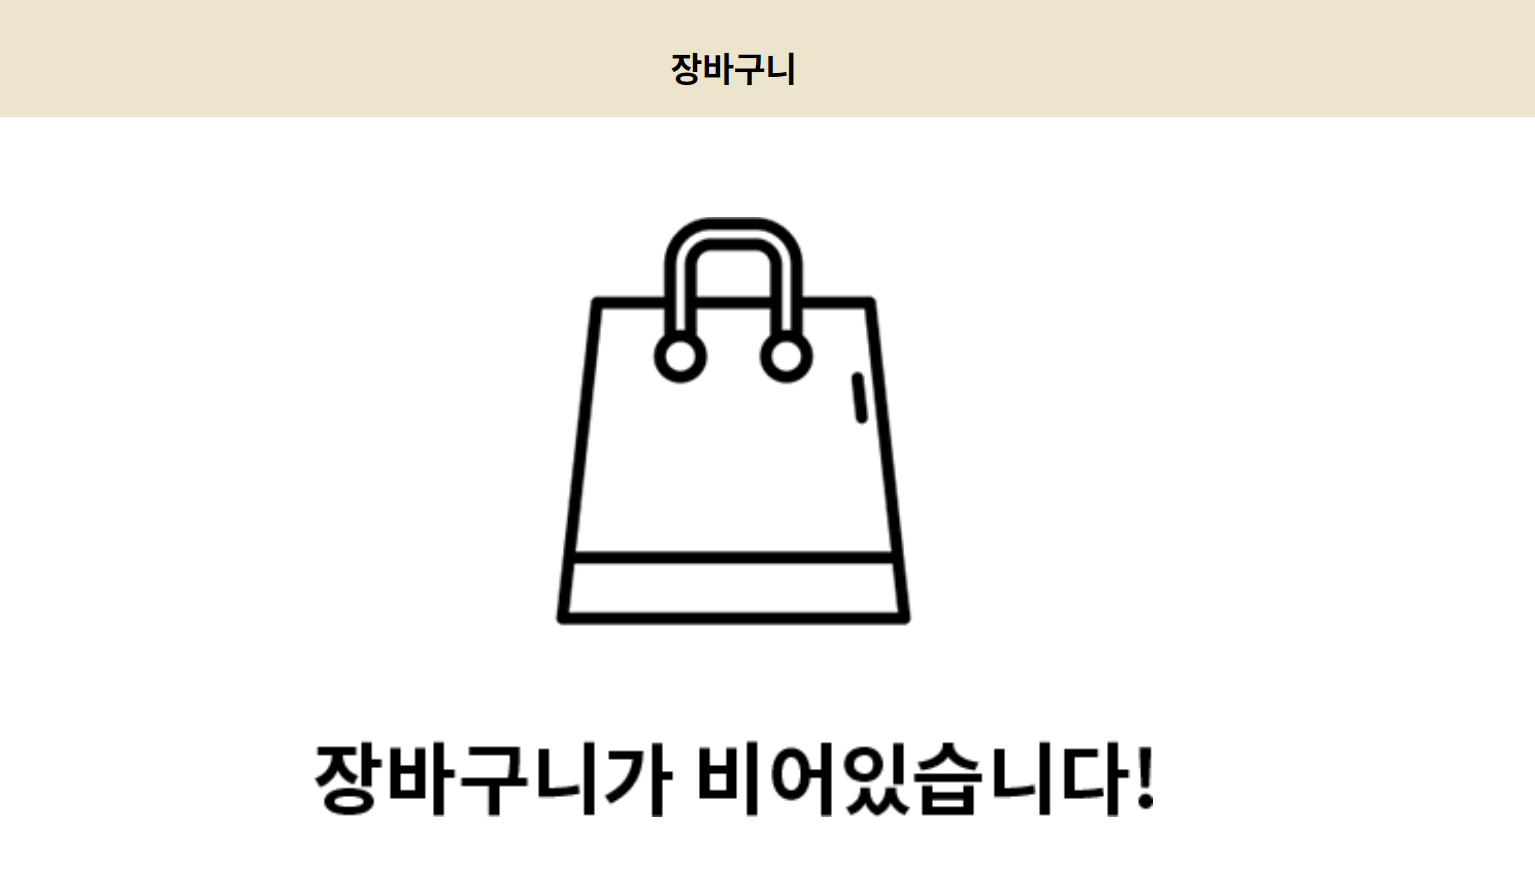
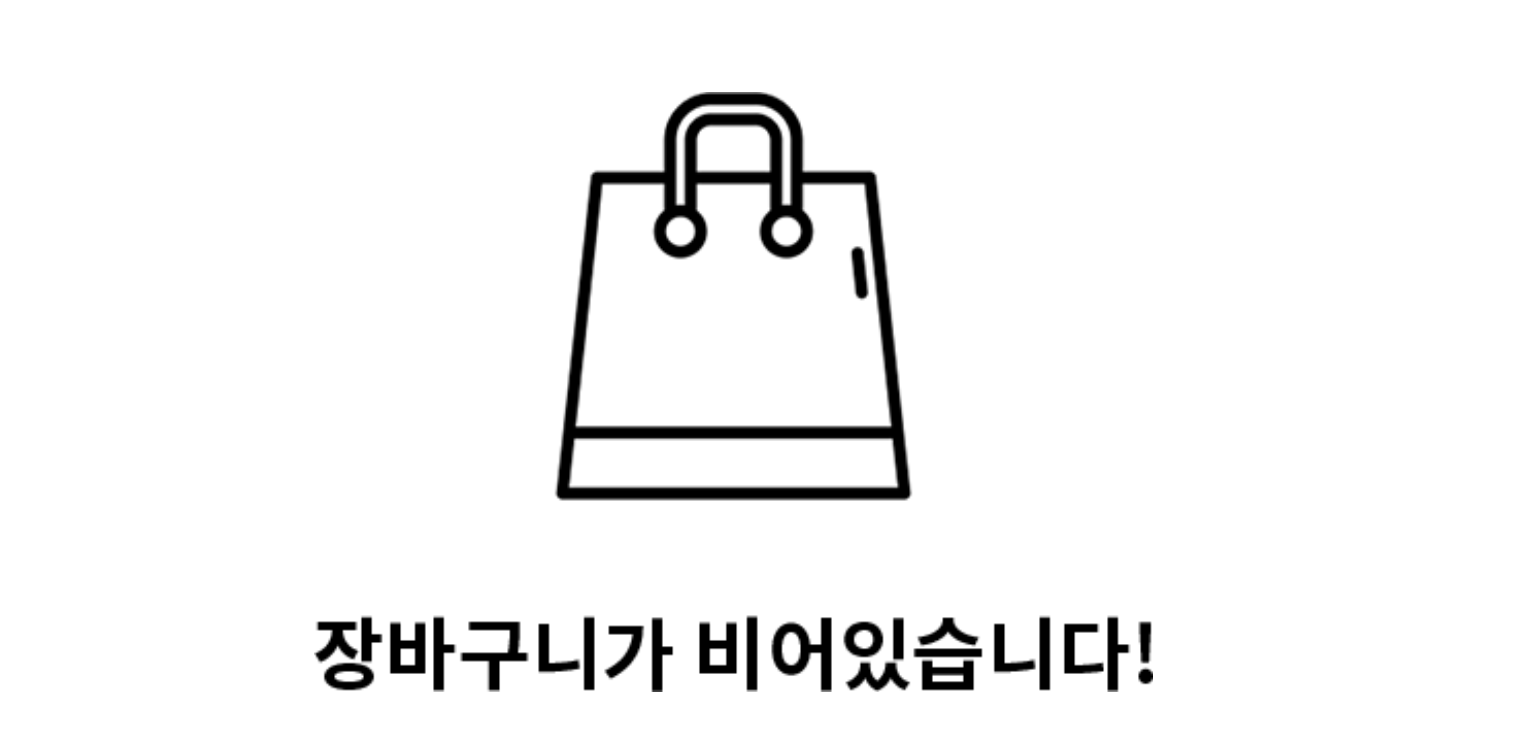
카트수정

Changed region(s): [[0.0, 0.0, 1.0, 0.7419], [0.1837, 0.8347, 0.7655, 0.9583]]

diff --git a/fran365/src/main/resources/templates/social/main.html b/fran365/src/main/resources/templates/social/main.html
@@ -9,7 +9,7 @@
     <link href="https://cdn.jsdelivr.net/npm/summernote@0.8.18/dist/summernote-bs4.min.css" rel="stylesheet">
     <script src="https://cdn.jsdelivr.net/npm/summernote@0.8.18/dist/summernote-bs4.min.js"></script>
 <script src="https://cdn.jsdelivr.net/npm/bootstrap@5.3.2/dist/js/bootstrap.bundle.min.js" integrity="sha384-C6RzsynM9kWDrMNeT87bh95OGNyZPhcTNXj1NW7RuBCsyN/o0jlpcV8Qyq46cDfL" crossorigin="anonymous"></script>
-<div class="container">
+<div class="container" style="margin-top: -80px;">
 <div class="content">
     <div class="pb-10">
         <div class="row gy-3 gx-5 gx-xxl-6">
@@ -61,7 +61,7 @@
                                                     <td class="align-middle white-space-nowrap text-end pe-0">
                                                         <div class="font-sans-serif btn-reveal-trigger position-static">
                                                             <button class="btn btn-sm dropdown-toggle dropdown-caret-none transition-none btn-reveal fs--2" type="button" data-bs-toggle="dropdown" data-boundary="window" aria-haspopup="true" aria-expanded="false" data-bs-reference="parent"><span class="fas fa-ellipsis-h fs--2"></span></button>
-                                                            <div class="dropdown-menu dropdown-menu-end py-2"> <button class="view-button" th:data-id="${list.id}">View</button><button class="dropdown-item" data-bs-toggle="modal" data-bs-target="#exampleModal" th:data-status="${list.status}" th:data-id="${list.id}" th:data-content="${list.content}">수정</button>
+                                                            <div class="dropdown-menu dropdown-menu-end py-2"><button class="dropdown-item view-button" th:data-id="${list.id}">보기</button><button class="dropdown-item" data-bs-toggle="modal" data-bs-target="#exampleModal" th:data-status="${list.status}" th:data-id="${list.id}" th:data-content="${list.content}">수정</button>
                                                                 <div class="dropdown-divider"></div><a class="dropdown-item text-danger" th:href="@{|/social/delete?id=${list.id}|}">삭제</a>
                                                             </div>
                                                         </div>
@@ -84,14 +84,14 @@
                         <input type="hidden" id="content-id" name="contentId">
                         <textarea type="text" id="summernote" name="content"></textarea>
                         <input type="hidden" name="image" th:value="${member.image}">
-                        <div style="display: flex; justify-content: center;">
+                        <div style="display: flex; justify-content: right;">
                         <input type="submit" class="btn btn-primary" style="margin-top: 5px;" value="등록">
                         </div>
                     </form>
                 </div>
 
-                <div class="mb-9">
-                    <br>
+                <div class="mb-9" style="margin-top: -30px">
+
                     <th:block th:each="detail, loop : ${paging}">
                     <div class="mb-5">
                         <div class="card mb-4">
@@ -106,23 +106,22 @@
 
                                         </div>
                                     </a>
-                                        <div th:id="'detail-' + ${detail.id}">
-                                        <div class="flex-1"><a class="fw-bold mb-0 text-black" href="../../apps/social/profile.html">[[${detail.username}]]</a>
+
+                                        <div class="flex-1" th:id="'detail-' + ${detail.id}"><a class="fw-bold mb-0 text-black" href="../../apps/social/profile.html">[[${detail.username}]]</a>
 
                                             <p class="fs--2 mb-0 text-600 fw-semi-bold"><div th:text="${#temporals.format(detail.createDate, 'yyyy년 MM월 dd일 HH:mm')}"></div><span class="fa-solid fa-circle text-300" data-fa-transform="shrink-10 down-2"></span>대한민국<span class="fa-solid fa-circle text-300" data-fa-transform="shrink-10 down-2"></span><span class="fa-solid fa-earth-americas text-900"></span>
                                             </p>
                                         </div>
-                                        </div>
+
                                         <div th:if="${#authorization.expression('hasRole(''ADMIN'')') or #authentication.name == detail.username}" class="btn-reveal-trigger">
                                             <button class="btn btn-sm dropdown-toggle dropdown-caret-none transition-none d-flex btn-reveal" type="button" data-bs-toggle="dropdown" data-boundary="window" aria-haspopup="true" aria-expanded="false" data-bs-reference="parent"><span class="fas fa-ellipsis-h"></span></button>
                                             <div class="dropdown-menu dropdown-menu-end py-2"><button class="dropdown-item" data-bs-toggle="modal" data-bs-target="#exampleModal" th:data-status="${detail.status}" th:data-id="${detail.id}" th:data-content="${detail.content}">수정</button><a class="dropdown-item text-danger" th:href="@{|/social/delete?id=${detail.id}|}">삭제</a></div>
                                         </div>
 
                                     </div>
-
+                                    <div class="container" style="margin-left: -20px;">
                                         [(${detail.content})]
-
-
+</div>
                                 </div>
                                 <div class="d-flex">
                                     <a href="javascript:void(0);" class="btn btn-link p-0 me-3 fs--1 fw-bolder recommend" th:data-uri="@{|/social/like?id=${detail.id}|}" style="color: red; text-decoration-color: red;">
@@ -246,10 +245,10 @@
 <script>
     $(document).ready(function() {
 
-
         $('#summernote').summernote({
             tabsize: 2,
             height: 200,
+
         });
 
         $(".set-status").click(function() {

diff --git a/fran365/src/main/resources/templates/cart/readDetail.html b/fran365/src/main/resources/templates/cart/readDetail.html
@@ -13,12 +13,18 @@
 
     <!-- ============================================-->
     <!-- <section> begin ============================-->
-    <section class="pt-5 pb-9">
-        <div class="container-small cart">
+    <div class="container">
+        <div class="col-md-10 offset-md-1">
+            <div class="card shadow-none border border-300 mb-3"
+                 data-component-card="data-component-card">
+
+                <div class="card-body p-0">
+                    <div class="p-4 code-to-copy">
+<br>
             <h2 class="mb-6">장바구니</h2>
             <div class="row g-5">
                 <div class="col-12 col-lg-8">
-                    <div id="cartTable" data-list='{"valueNames":["name","price","createDate","quantity","total"],"page":10}'>
+                    <div id="cartTable" data-list='{"valueNames":["name","price","createDate","quantity","total"]}'>
                         <div class="table-responsive scrollbar mx-n1 px-1">
                             <table class="table fs--1 mb-0 border-top border-200">
                                 <thead>
@@ -78,9 +84,13 @@
                     </div>
                 </div>
             </div>
+                        <br>
         </div>
         <!-- end of .container-->
-    </section>
+                </div>
+            </div>
+        </div>
+    </div>
 
 
 

diff --git a/fran365/src/main/resources/templates/fragments/header.html b/fran365/src/main/resources/templates/fragments/header.html
@@ -114,6 +114,7 @@
                             <ul class="nav d-flex flex-column mb-2 pb-1">
                                 <li class="nav-item"><a class="nav-link px-3" href="/member/readDetail"> <span class="me-2 text-900" data-feather="user"></span><span>프로필</span></a></li>
                                 <li class="nav-item"><a class="nav-link px-3" href="#!"><span class="me-2 text-900" data-feather="pie-chart"></span>결재현황</a></li>
+                                <li class="nav-item"><a class="nav-link px-3" href="/delivery/readList"><span class="me-2 text-900" data-feather="truck"></span>나의 주문내역</a></li>
                                 <li class="nav-item"><a class="nav-link px-3" href="#!"> <span class="me-2 text-900" data-feather="lock"></span>Posts &amp; 회원탈퇴</a></li>
                             </ul>
 

diff --git a/fran365/src/main/resources/templates/cart/noItem.html b/fran365/src/main/resources/templates/cart/noItem.html
@@ -3,10 +3,10 @@
       layout:decorate="~{fragments/layout1}">
 
 <div layout:fragment="content">
-    <div class="container" style="text-align: center; position: relative;">
+    <div class="container" style="text-align: center; position: relative; margin-top: 90px;">
 
-<img src="../images/noItem.png" style="width: 1200px; height: auto;"/>
-    <div style="position: fixed; top: 15%; left: 75%; transform: translate(-50%, -50%);">
+<img src="../images/noItem.png" style="width: 1200px; height: auto; border-radius: 10%;" />
+    <div style="position: fixed; top: 100px; right: 400px;">
         <a class="btn btn-secondary me-1 mb-1 btn-lg" href="/product/readList" >상품담기</a>
     </div>
     </div>

diff --git a/fran365/src/main/resources/templates/product/readList.html b/fran365/src/main/resources/templates/product/readList.html
@@ -15,7 +15,7 @@ mail : leeseulaseula@gmail.com
                  data-component-card="data-component-card">
                 <div class="card-header p-4 border-bottom border-300 bg-soft">
                     <div class="d-flex justify-content-between align-items-center">
-                        <h4 class="text-900 mb-0" data-anchor="data-anchor">상품 목록</h4>
+                        <h3 class="text-900 mb-0" data-anchor="data-anchor">상품 목록</h3>
                     </div>
                 </div>
                 <div class="card-body p-0">

diff --git a/fran365/src/main/resources/templates/delivery/readDetail.html b/fran365/src/main/resources/templates/delivery/readDetail.html
@@ -13,7 +13,7 @@
                  data-component-card="data-component-card">
                 <div class="card-header p-4 border-bottom border-300 bg-soft">
                     <div class="d-flex justify-content-between align-items-center">
-                        <h4 class="text-900 mb-0" data-anchor="data-anchor">배송 정보</h4>
+                        <h3 class="text-900 mb-0" data-anchor="data-anchor">배송 정보</h3>
                     </div>
                 </div>
                 <div class="card-body p-0">

diff --git a/fran365/src/main/resources/templates/product/create.html b/fran365/src/main/resources/templates/product/create.html
@@ -13,7 +13,7 @@ mail : leeseulaseula@gmail.com
             <div class="card-header p-4 border-bottom border-300 bg-soft">
                 <div class="row g-3 justify-content-between align-items-center">
                     <div class="col-12 col-md">
-                        <h4 class="text-900 mb-0" data-anchor="data-anchor">제품 등록</h4>
+                        <h3 class="text-900 mb-0" data-anchor="data-anchor">제품 등록</h3>
                     </div>
                 </div>
             </div>

diff --git a/fran365/src/main/resources/templates/product/update.html b/fran365/src/main/resources/templates/product/update.html
@@ -13,7 +13,7 @@ mail : leeseulaseula@gmail.com
             <div class="card-header p-4 border-bottom border-300 bg-soft">
                 <div class="row g-3 justify-content-between align-items-center">
                     <div class="col-12 col-md">
-                        <h4 class="text-900 mb-0" data-anchor="data-anchor">제품 등록</h4>
+                        <h3 class="text-900 mb-0" data-anchor="data-anchor">제품 등록</h3>
                     </div>
                 </div>
             </div>

diff --git a/fran365/src/main/resources/templates/delivery/readList.html b/fran365/src/main/resources/templates/delivery/readList.html
@@ -9,7 +9,7 @@
            data-component-card="data-component-card">
         <div class="card-header p-4 border-bottom border-300 bg-soft">
           <div class="d-flex justify-content-between align-items-center">
-            <h4 class="text-900 mb-0" data-anchor="data-anchor">주문 목록</h4>
+            <h3 class="text-900 mb-0" data-anchor="data-anchor">주문 목록</h3>
           </div>
         </div>
         <div class="card-body p-0">

diff --git a/fran365/src/main/java/com/example/fran365/delivery/DeliveryServiceImpl.java b/fran365/src/main/java/com/example/fran365/delivery/DeliveryServiceImpl.java
@@ -6,6 +6,7 @@ import java.util.List;
 import java.util.Optional;
 
 import org.springframework.beans.factory.annotation.Autowired;
+import org.springframework.data.domain.Sort;
 import org.springframework.security.core.Authentication;
 import org.springframework.security.core.context.SecurityContextHolder;
 import org.springframework.stereotype.Service;
@@ -99,7 +100,7 @@ public class DeliveryServiceImpl implements DeliveryService{
         Authentication auth = SecurityContextHolder.getContext().getAuthentication();
         String username = auth.getName();
 
-        return deliveryRepository.findByUsername(username);
+        return deliveryRepository.findByUsername(username, Sort.by(Sort.Direction.DESC, "createDate"));
     }
 
     @Override
